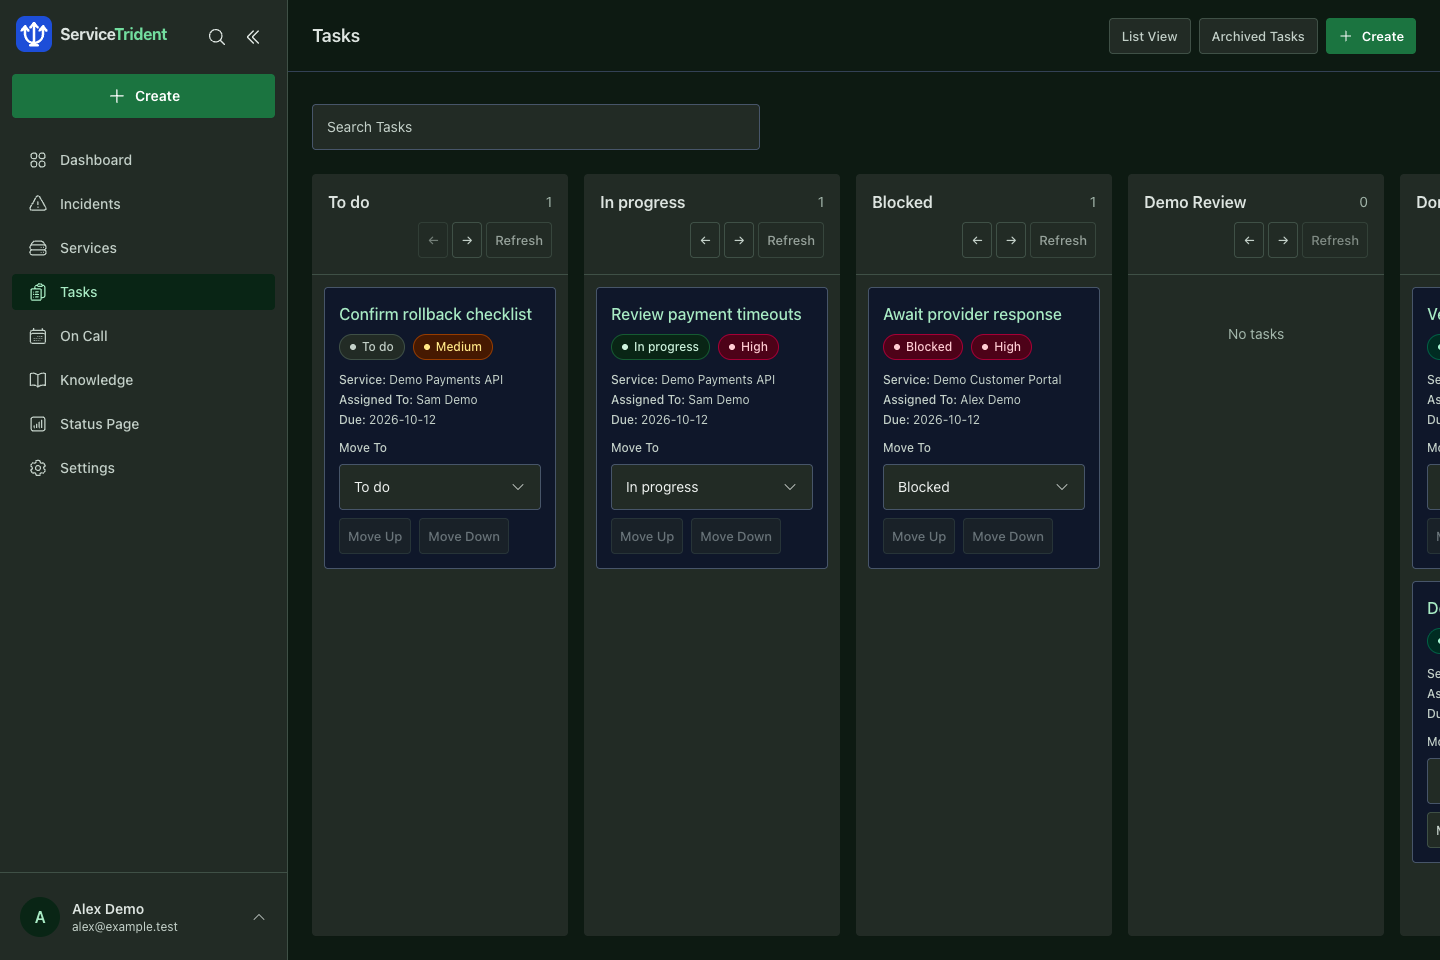
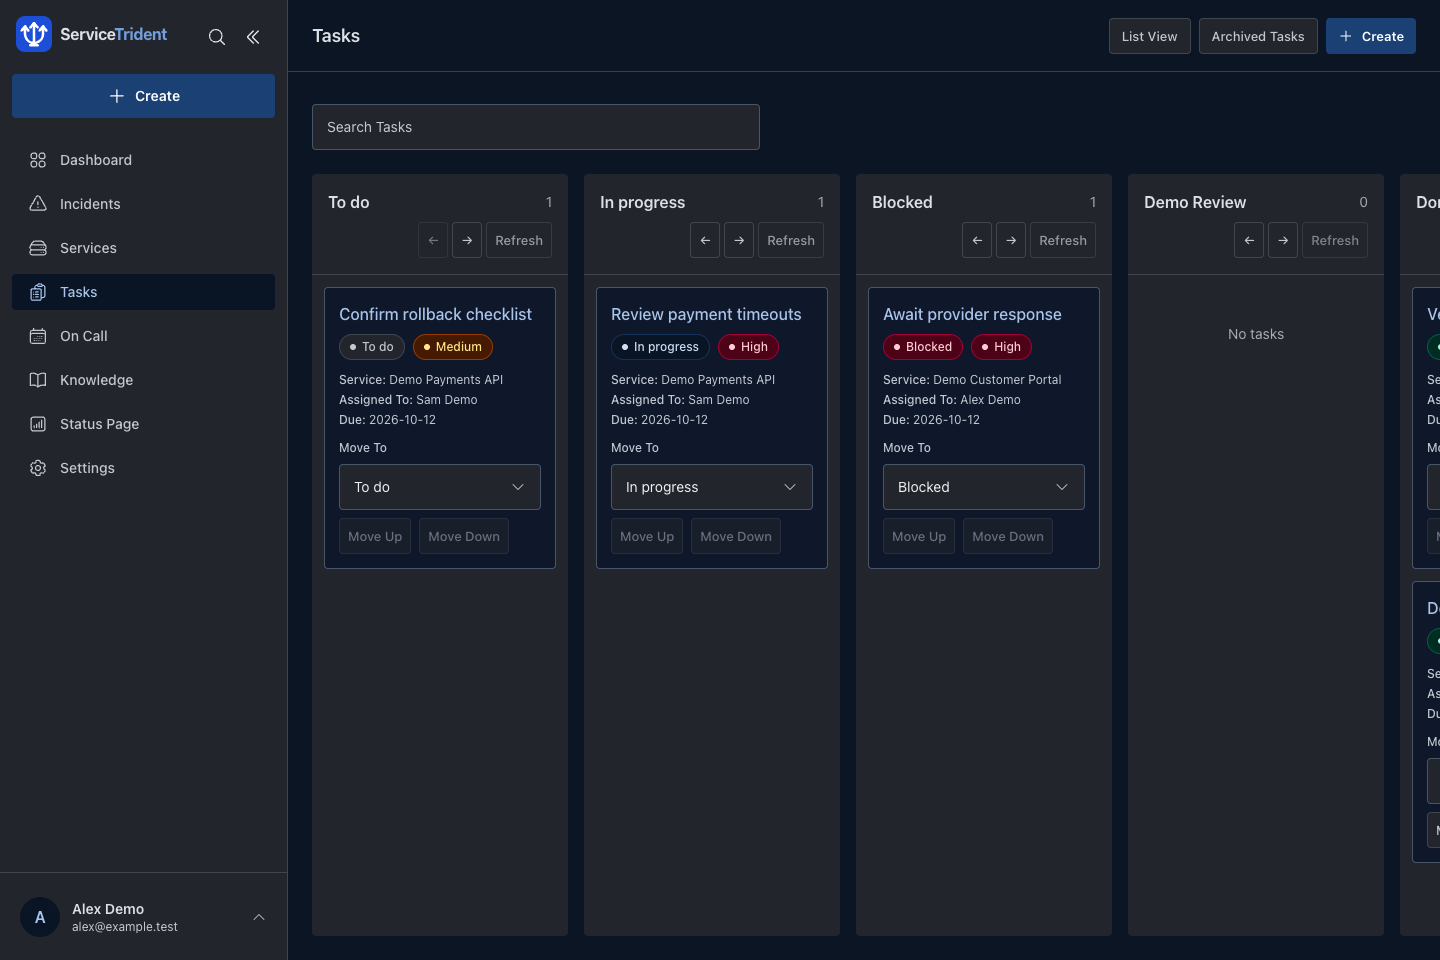
additional updates and testing AI provider

diff --git a/app/src/features/status/page.jsx b/app/src/features/status/page.jsx
@@ -1,3 +1,4 @@
+import { RecordHeader } from '../../components/record-actions.jsx';
 import { DateTime } from '../../preferences/date-time.jsx';
 import { StatusSubscriptions } from './subscriptions.jsx';
 import { Cog6ToothIcon, ArrowTopRightOnSquareIcon } from '@heroicons/react/24/outline';
@@ -82,17 +83,21 @@ export function StatusPage({ publicView = false }) {
             </Select>
           </label>
           {!publicView && (
-            <AdminOnly>
-              <Link
-                className="btn-secondary h-11 w-11 shrink-0 !p-0"
-                to="/status/settings"
-                aria-label="Manage Status Page"
-                title="Manage Status Page"
-              >
-                <Cog6ToothIcon className="h-5 w-5" aria-hidden="true" />
-              </Link>
-              <PublicStatusLink />
-            </AdminOnly>
+            <RecordHeader>
+              <div className="flex items-center gap-2">
+                <AdminOnly>
+                  <Link
+                    className="btn-secondary h-9 w-9 shrink-0 !p-0"
+                    to="/status/settings"
+                    aria-label="Manage Status Page"
+                    title="Manage Status Page"
+                  >
+                    <Cog6ToothIcon className="h-5 w-5" aria-hidden="true" />
+                  </Link>
+                  <PublicStatusLink />
+                </AdminOnly>
+              </div>
+            </RecordHeader>
           )}
         </div>
       </header>
@@ -144,7 +149,7 @@ function PublicStatusLink() {
       href={data.publicPath}
       target="_blank"
       rel="noopener noreferrer"
-      className="btn-secondary h-11 w-11 shrink-0 !p-0"
+      className="btn-secondary h-9 w-9 shrink-0 !p-0"
       aria-label="Open Public Status Page in a new tab"
       title="Open Public Status Page"
     >

diff --git a/app/src/features/help/topics.js b/app/src/features/help/topics.js
@@ -186,7 +186,7 @@ export const helpTopics = [
     ],
     paragraphs: [
       'Open Service Status and select the settings gear. Choose Private for workspace access or Public to share the generated public link. The public page has no application sidebar and omits monitor targets and response bodies.',
-      'Admins can choose a Background Color in status settings for the private and public status page. Use App Theme removes the override. Content panels retain readable surfaces and heading text adjusts to the chosen background.',
+      'The in-app status page shows Settings and the public launch control in its top header. Public launch appears for admins when public visibility is enabled. Admins can choose a Background Color in status settings for the private and public status page. Use App Theme removes the override. Content panels retain readable surfaces and heading text adjusts to the chosen background.',
       'Publish a global banner or service-specific message to explain impact. Choose its criticality and enable it when ready. Messages add context; they do not override measured service health. You can upload or remove a branding icon.',
       'Show or hide subscriptions with one control. Hiding subscriptions stops new signups, email updates, and RSS access. Email and RSS can be configured independently when shown. Unsubscribe links continue to work.',
       'For email subscriptions, select an enabled SMTP integration and configure the public HTTPS origin used for links. Visitors select Subscribe to updates beside the theme toggle, then choose email or RSS. Email requires confirmation within 24 hours and includes an unsubscribe link.',

diff --git a/app/public/help/README.md b/app/public/help/README.md
@@ -8,6 +8,6 @@ To refresh them from the repository root:
 2. Install Playwright in a temporary directory: `npm install --prefix /tmp/servicetrident-help-capture playwright`.
 3. Run `PLAYWRIGHT_MODULE=/tmp/servicetrident-help-capture/node_modules/playwright/index.mjs node scripts/capture-help-screenshots.mjs`.
 
-The script defaults to installed macOS Google Chrome. Set `CHROME_PATH` for a different Chromium executable and `HELP_CAPTURE_URL` for a different local frontend URL. It refreshes eighteen Help screenshots and four dark-mode README images. It checks task movement and ordering, keyboard controls, mobile overflow, conflict handling, archive separation, viewer permissions, custom status lanes, admin-only global lane ordering, continuous card loading, knowledge-base creation and article association, runbook reading, read-only references, Help image loading, loading access-message suppression, field labels and Help Text, AI feature gating and draft confirmation, themes, date/time formats, and matching record header/panel heights, compact controls, report-specific breadcrumb titles, and list header alignment, single-border composite fields, unclipped on-call header dropdowns, and the status colour preview. AI responses are synthetic and no provider receives a request. API key input is cleared before any provider screenshot is captured.
+The script defaults to installed macOS Google Chrome. Set `CHROME_PATH` for a different Chromium executable and `HELP_CAPTURE_URL` for a different local frontend URL. It refreshes eighteen Help screenshots and five README images using the default Ocean theme in dark mode. It checks task movement and ordering, keyboard controls, mobile overflow, conflict handling, archive separation, viewer permissions, custom status lanes, admin-only global lane ordering, continuous card loading, knowledge-base creation and article association, runbook reading, read-only references, Help image loading, loading access-message suppression, field labels and Help Text, AI feature gating and draft confirmation, themes, date/time formats, and matching record header/panel heights, compact controls, report-specific breadcrumb titles, and list header alignment, single-border composite fields, unclipped on-call header dropdowns, and the status colour preview. AI responses are synthetic and no provider receives a request. API key input is cleared before any provider screenshot is captured.
 
 Keep screenshot metadata in `app/src/features/help/topics.js` and the main README aligned with these images. Open every output to review framing and confirm that it contains only demo data before committing. To check the built running application without changing bundled images, set `HELP_CAPTURE_URL=http://127.0.0.1:8090` and `HELP_CAPTURE_OUTPUT=/tmp/servicetrident-help-live-check`.

diff --git a/README.md b/README.md
@@ -24,15 +24,19 @@ Optional AI features let a workspace connect its own OpenAI or Claude API accoun
 
 ## App preview
 
-These current dark-mode screenshots contain **synthetic demo data only**. They are captured in an isolated browser that intercepts every API request and blocks external requests; no live workspace is read or modified. [Reproduce the captures](app/public/help/README.md).
+These current screenshots use the **default Ocean theme in dark mode** and contain **synthetic demo data only**. They are captured in an isolated browser that intercepts every API request and blocks external requests; no live workspace is read or modified. [Reproduce the captures](app/public/help/README.md).
 
 ### Overview dashboard
 
-![Dark-mode Overview dashboard with demo bar and pie charts across incident severity, tasks, and service health](app/public/help/readme-dashboard-dark.png)
+![Default Ocean theme in dark mode: Overview dashboard with demo bar and pie charts across incident severity, tasks, and service health](app/public/help/readme-dashboard-dark.png)
 
 ### Tasks board
 
 ![Dark-mode demo task board with custom status lanes and shared ordering controls](app/public/help/readme-tasks-dark.png)
+
+### Status page
+
+![Default Ocean theme in dark mode: demo status page with service health history and header management controls](app/public/help/readme-status-dark.png)
 
 ### Knowledge runbook
 
